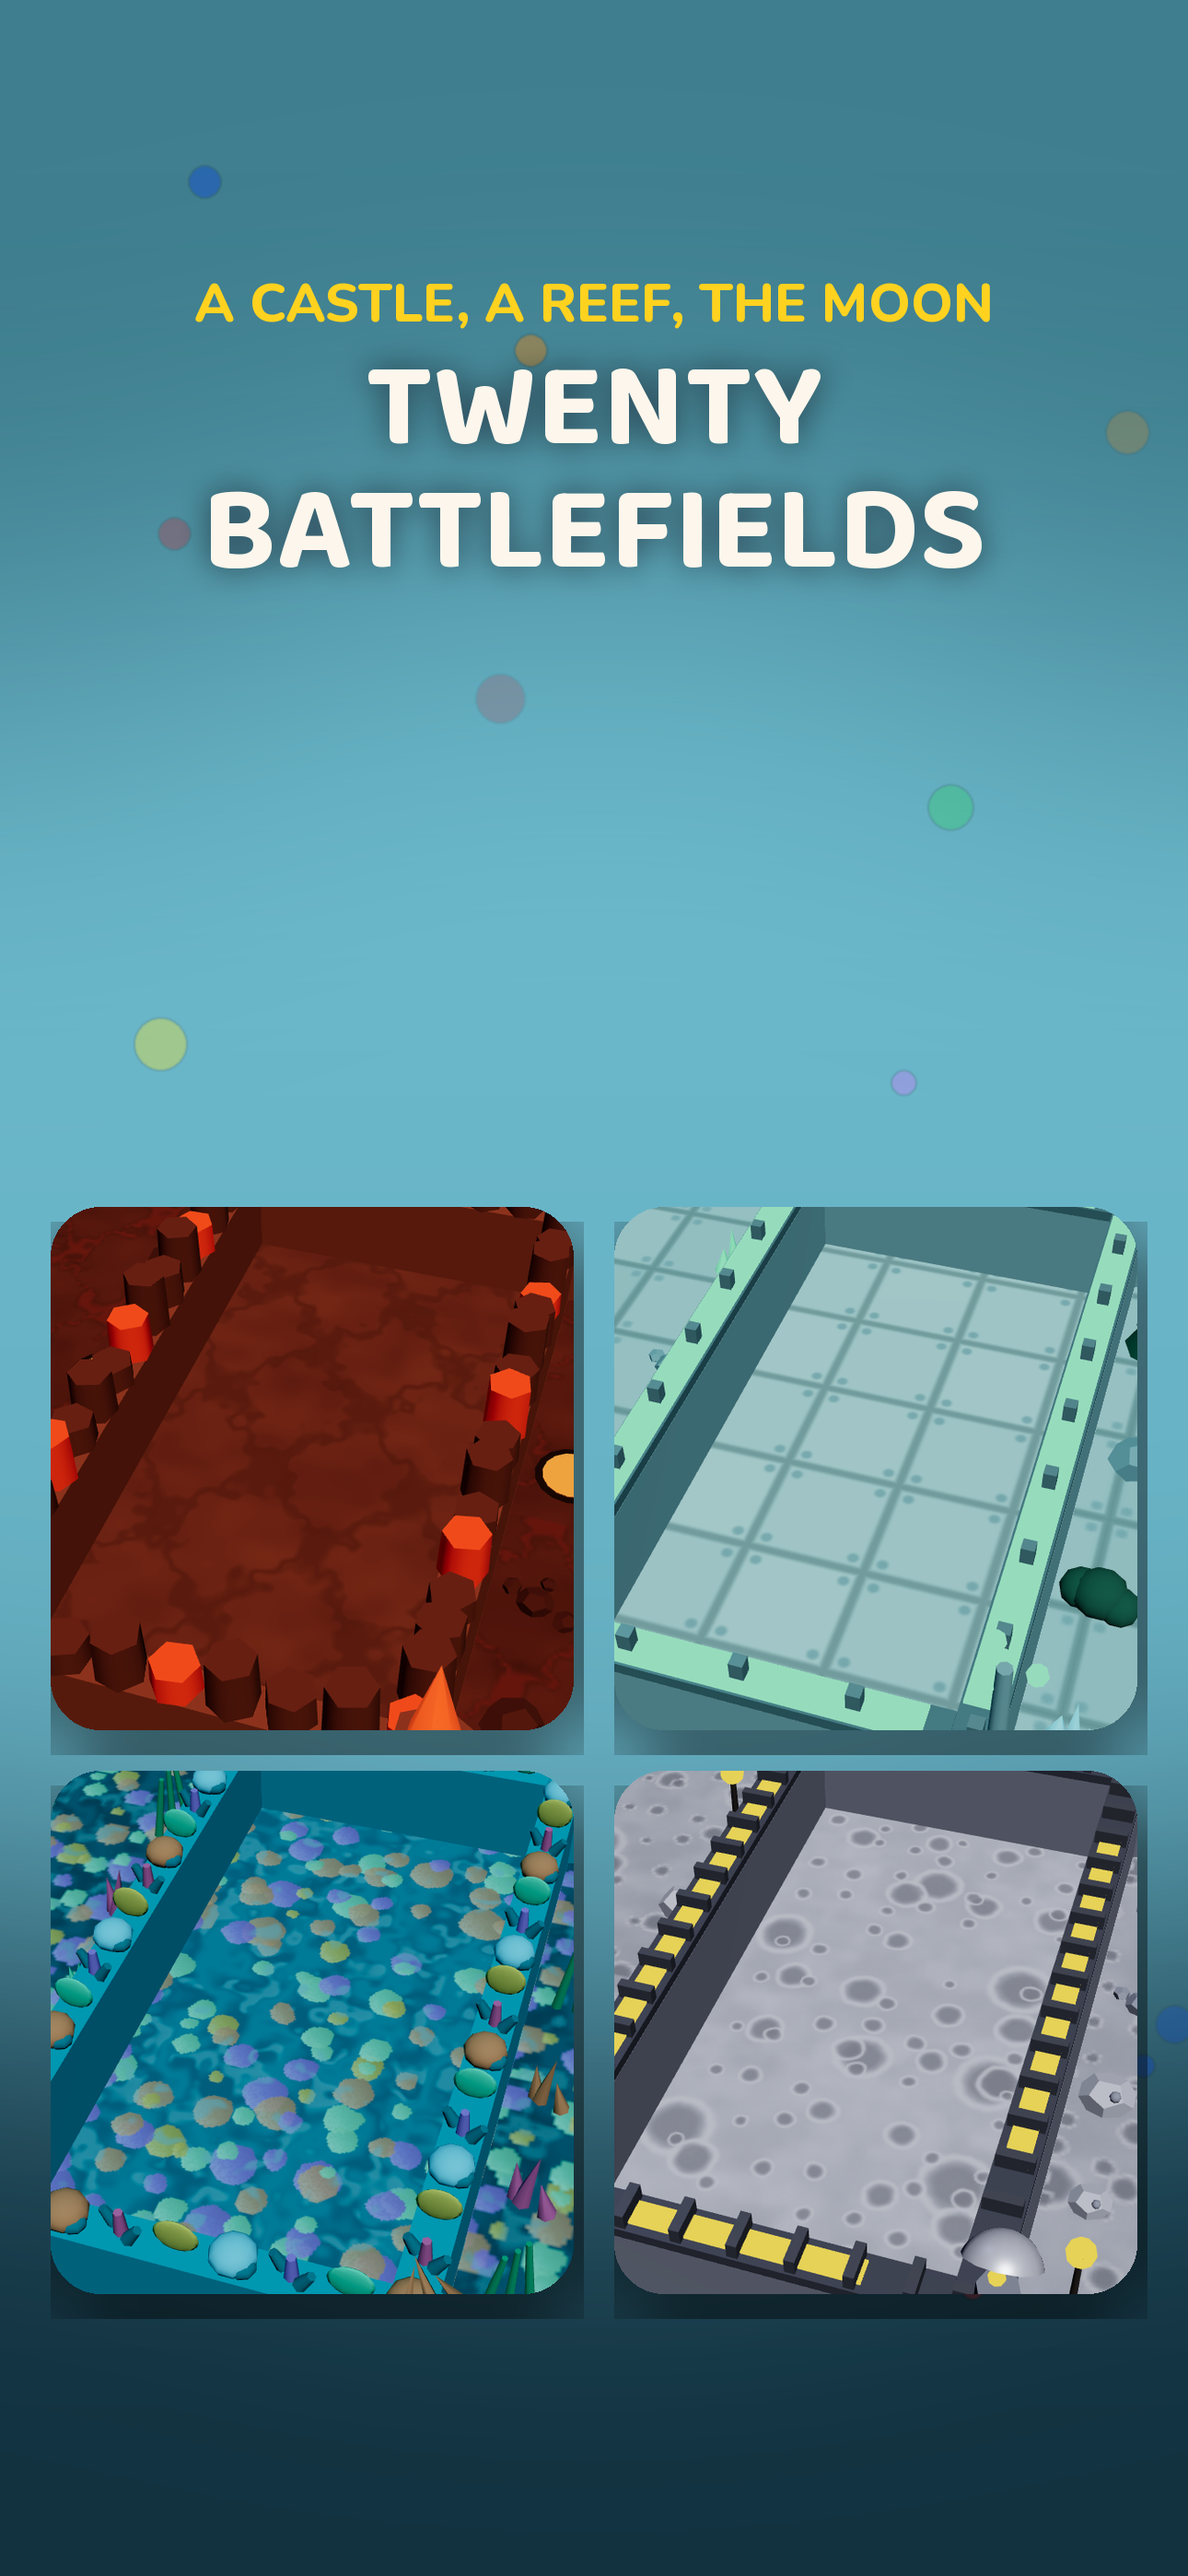
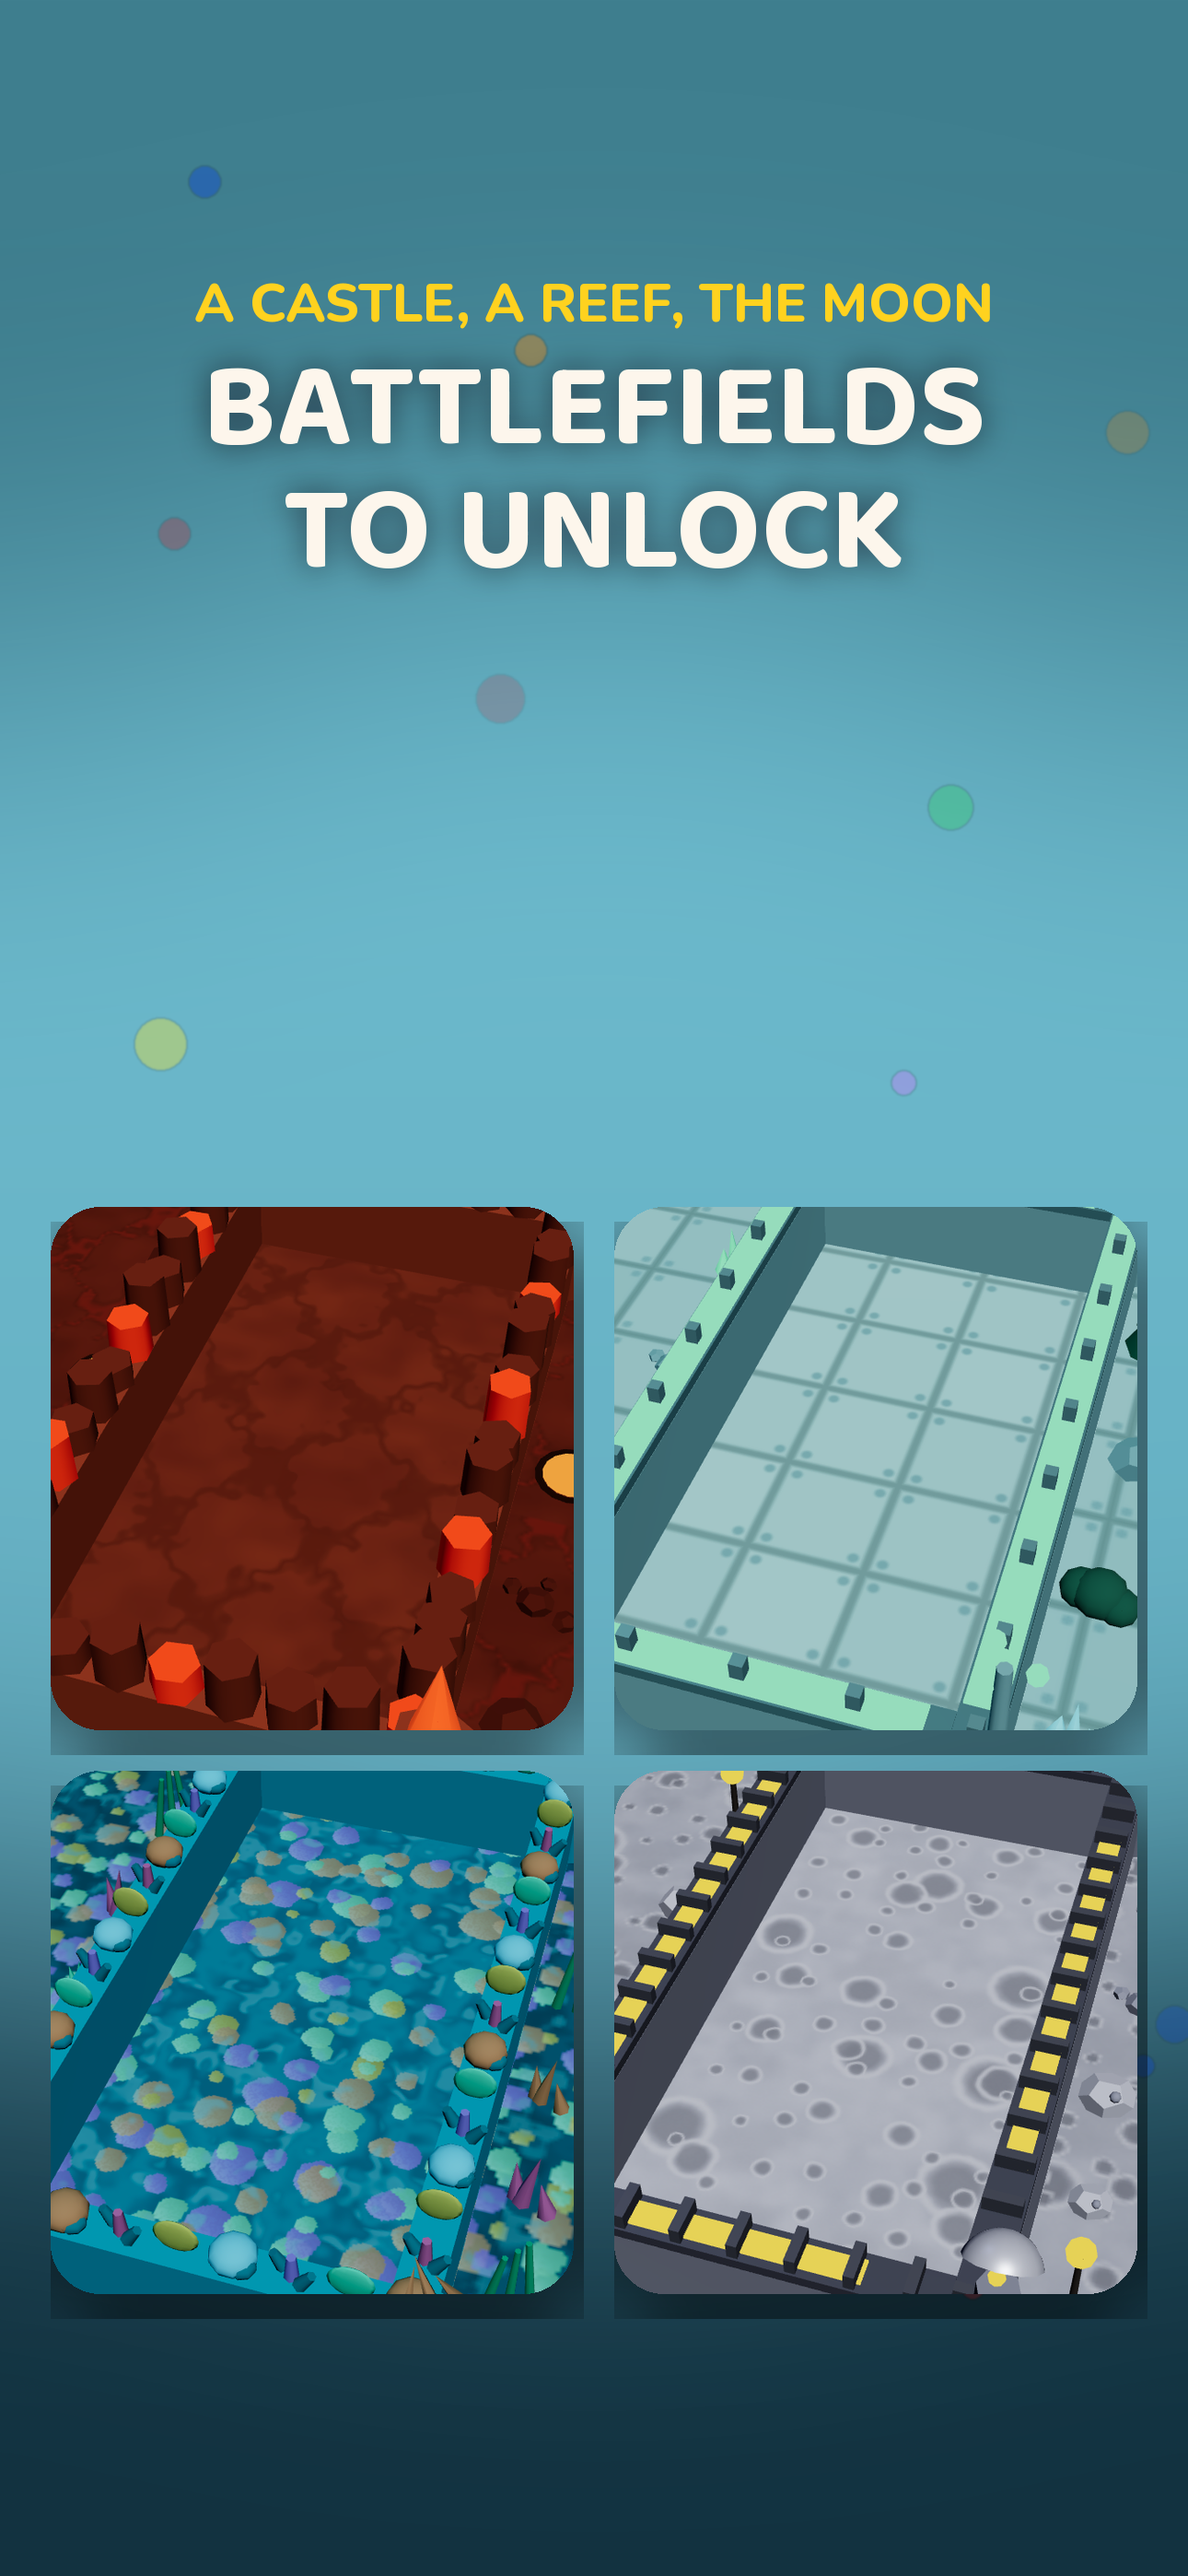
Take the counts off the screenshots so the game can grow into them
Marc: "don't say exactly how many arenas or dice we have so we can keep
expanding."

TWENTY BATTLEFIELDS becomes BATTLEFIELDS TO UNLOCK, and FIFTY-THREE DICE
SETS becomes DICE SETS TO COLLECT. A specific number is tempting —
concrete, impressive, and true on the day — but it is a promise that goes
stale the moment the game grows, and a screenshot cannot be corrected
without a new submission. Overstating is grounds for rejection;
understating just sells the game short for however many months pass
before the next release. Naming the kind of thing rather than the
quantity stays true either way.

FOUR WAYS TO PLAY stays a number on purpose: the modes are the game's
structure rather than a collection, and a fifth would be a change big
enough to rebuild the screenshots for regardless.

The README's copy rules said the opposite — that the numbers had to be
checked against the code before each submission — so that section is
replaced rather than amended.

Claude-Session: https://claude.ai/code/session_01CS1UTCjniPPdCnsZQpJxtk

Changed region(s): [[0.155, 0.1245, 0.8372, 0.2489]]

diff --git a/tools/store-shots/build-shots.py b/tools/store-shots/build-shots.py
@@ -64,11 +64,11 @@ board_shot('/tmp/store-2.png', '/tmp/hero-candy.png',
 
 tiles_shot('/tmp/store-3.png',
     ['/tmp/hero-volcano.png', '/tmp/hero-aurora.png', '/tmp/hero-reef.png', '/tmp/hero-moon.png'],
-    'A castle, a reef, the moon', 'TWENTY\nBATTLEFIELDS',
+    'A castle, a reef, the moon', 'BATTLEFIELDS\nTO UNLOCK',
     '#3f7f8f', '#123240', '#7fd4e8', 14)
 
 grid_shot('/tmp/store-4.png', '/tmp/dice-grid.png',
-    'Earn them, or buy them', 'FIFTY-THREE\nDICE SETS',
+    'Earn them, or buy them', 'DICE SETS\nTO COLLECT',
     '#d2451e', '#4d1a0c', '#ffb27a', 15)
 
 board_shot('/tmp/store-5.png', '/tmp/hero-cavern.png',

diff --git a/tools/store-shots/README.md b/tools/store-shots/README.md
@@ -44,16 +44,26 @@ ARE the game.
 
 ## Rules for the copy
 
-Every number on these has to be true on the day they are uploaded, and
-they are checked against the code rather than remembered:
+**No countable claims.** Marc, 29 Aug 2026, on a first pass that said
+TWENTY BATTLEFIELDS and FIFTY-THREE DICE SETS: "don't say exactly how
+many arenas or dice we have so we can keep expanding."
 
-- **20 battlefields** — `Object.keys(ARENAS).length`
-- **53 dice sets** — `DICE_SKINS.length`
-- **4 ways to play** — `MODE_ORDER.length`
+He is right, and it is worth writing down why, because a specific number
+is genuinely tempting — it is concrete, it sounds impressive, and it was
+true on the day. It is also a promise that goes stale the moment the
+game grows, and a screenshot cannot be corrected without a new
+submission. Apple treats a screenshot that overstates the app as grounds
+for rejection, and one that UNDERSTATES it just sells the game short for
+however many months pass before the next release.
 
-If a release changes any of those, the screenshot is wrong and has to be
-rebuilt before the next submission. Apple treats a misleading screenshot
-as grounds for rejection, and it would be true even if they did not.
+So the copy names the KIND of thing and not the quantity of it:
+BATTLEFIELDS TO UNLOCK, DICE SETS TO COLLECT. Both stay true whether the
+next release adds four arenas or none.
+
+FOUR WAYS TO PLAY stays a number on purpose. The modes are the game's
+structure rather than a collection that grows — they are named in the
+description, the tutorial and the mode picker — so if a fifth ever ships
+it is a change big enough that the screenshots would be rebuilt anyway.
 
 ## What these deliberately do not do
 
